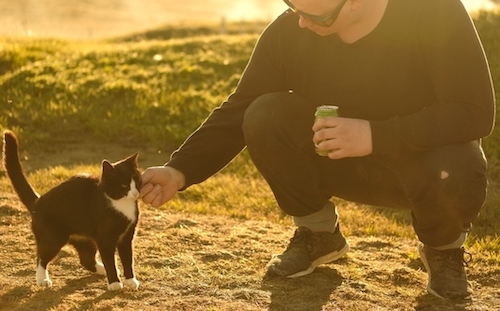
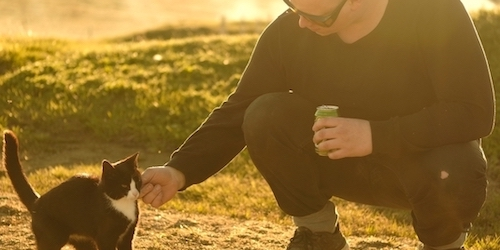
narrowing landing image on mobile, change max image height

diff --git a/src/components/ImageForm.vue b/src/components/ImageForm.vue
@@ -190,7 +190,7 @@ import { saveAs } from 'file-saver';
 import { isMobile, isTablet, isDesktop } from '@/utils/DeviceTesting'
 //max width is 75% of screen
 const IMAGE_HEIGHT = window.innerHeight - 50;
-const MOBILE_IMAGE_HEIGHT = window.innerHeight + 300;
+const MOBILE_IMAGE_HEIGHT = window.innerHeight - 350;
 const MOBILE_CANVAS_PERCENT = 1;
 const DESKTOP_CANVAS_PERCENT = .75;
 //how long we wait for an image to load before doing work
